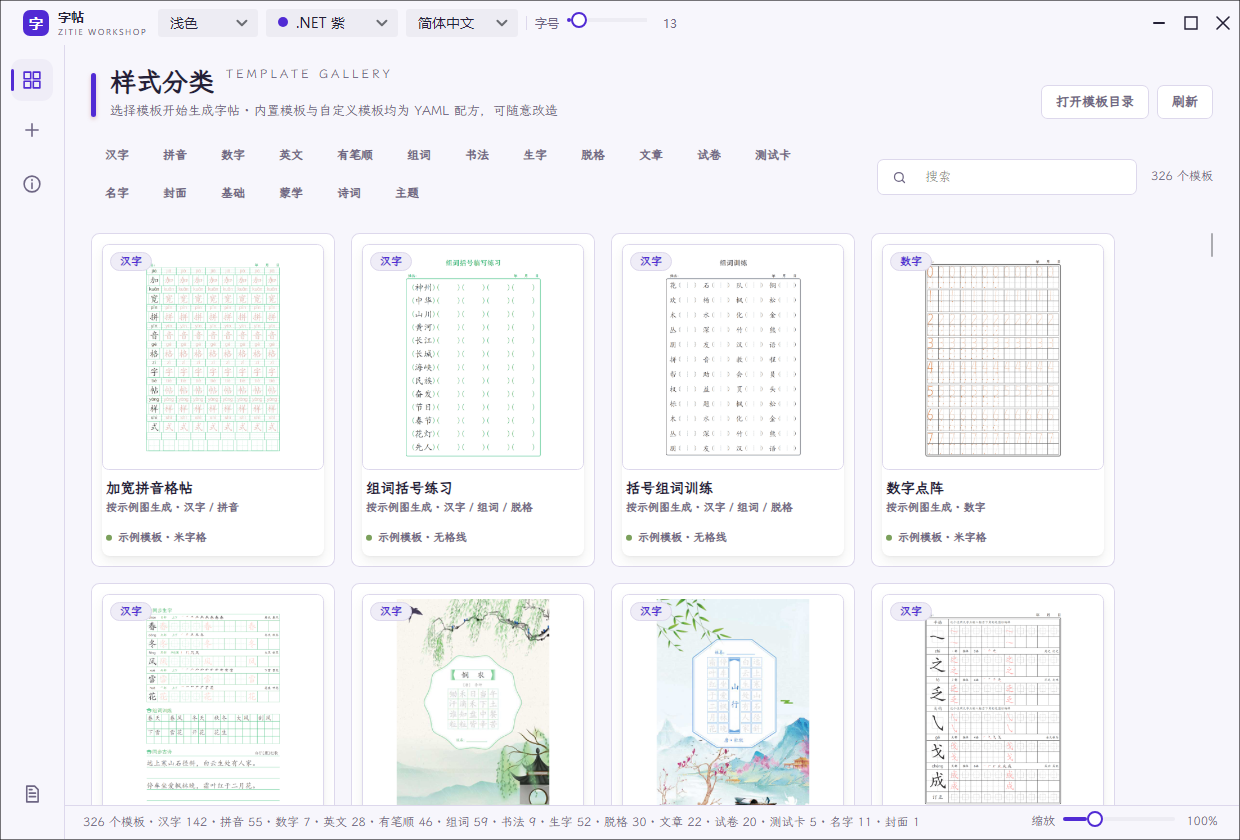
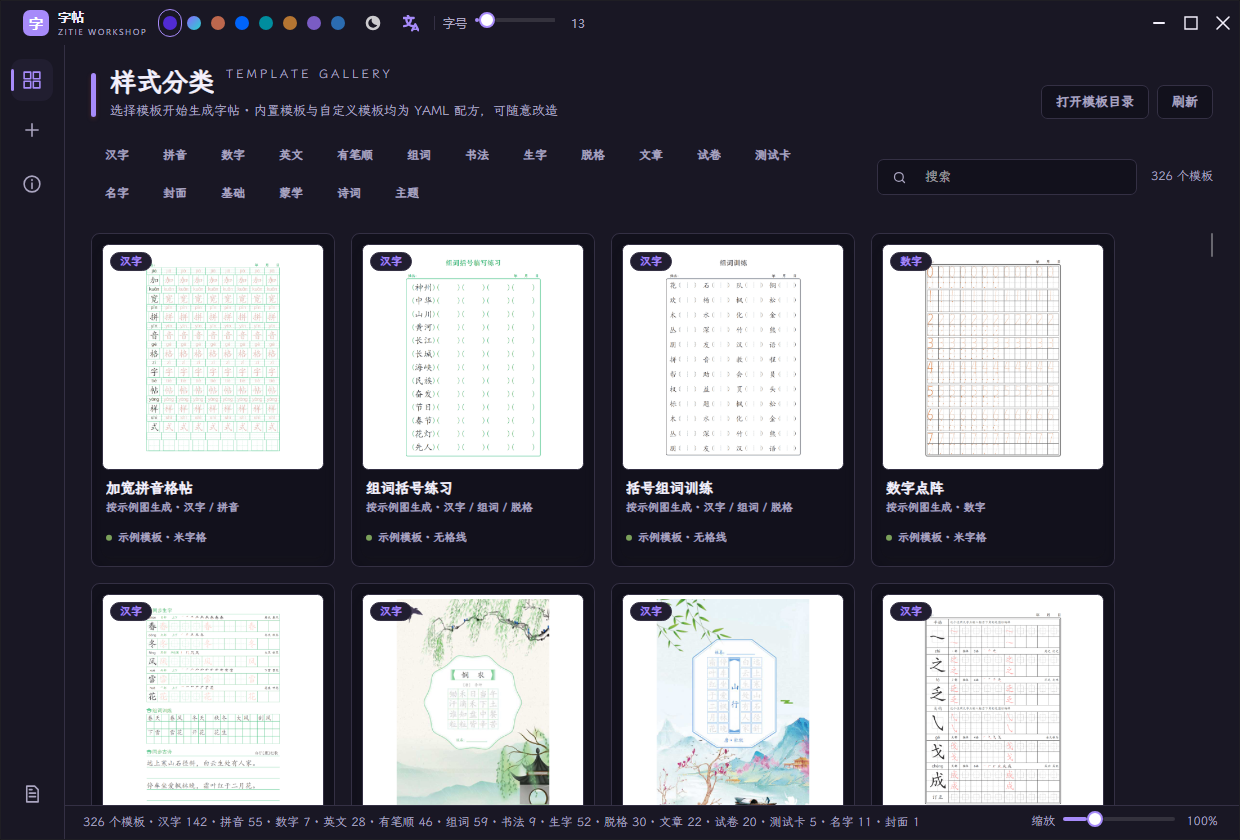
docs(验收): 更新零点二点二原生截图与安装包验证记录

diff --git a/docs/UI-VERIFICATION.md b/docs/UI-VERIFICATION.md
@@ -1,11 +1,15 @@
-# Zitie 0.2.1 界面验证
+# Zitie 0.2.2 界面验证
 
 验证使用实际 Prism 应用、实际视图模型和 Avalonia Headless + Skia。设置、文档、PDF 与受控下载放在隔离输出目录；更新安装使用测试服务，不执行真实安装。
+
+最终产物使用共享控件与国际化包 `12.1.4.22`：正式发布程序 `--selfcheck`、原生 UI verifier 的 88 条断言、Windows Inno Setup 安装包编译及 SHA-256 生成均通过。README 静态截图来自该版本原生验证器。安装器未实际运行。
 
 ## 验证范围
 
 - Core 与 Desktop 共 133 项测试。
-- 实际窗口 74 条断言：326 个合并模板、真正的中文分词、八色 × 明暗模式、中英动态切换、五个参数页、内容与模板抽屉、文档保存恢复、PDF 导出、关于和完整更新状态。
+- 实际窗口 88 条断言：326 个合并模板、真正的中文分词、八色 × 明暗模式、中英动态切换、五个参数页、内容与模板抽屉、文档保存恢复、PDF 导出、关于和完整更新状态。
+- 标题栏使用八个配色点、Ursa 三态主题按钮和 Semi 语言菜单；无重复下拉。实际点击 Ursa 内部按钮验证浅色、深色、系统三态及偏好持久化，通过真实 ListBox 验证配色选择。
+- 实际展开语言菜单并执行对应菜单项；Ursa 内部按钮的工具提示绑定宿主 T4 资源，在三态和中英切换时即时更新。
 - 针对同一个已打开的编辑器切换语言，验证六类参数保持原值，并检查关闭状态下格型下拉框的 `SelectionBoxItem` 显示当前语言；选项使用稳定对象，避免替换字符串列表引发参数重置。
 - 直接断言全局语言与保存的语言等于本次选择，避免选项刷新回写旧语言后产生测试假阳性；当前状态和字数摘要也随语言重算。
 - 编辑器工具栏在 1240 和最小 1000 宽度下保持导出命令可见，文档命令在空间不足时可横向滚动；未保存状态用小圆点表达。
@@ -13,7 +17,8 @@
 - 正式 `scripts/publish.ps1` Windows NativeAOT、发布程序 `--selfcheck`、实际原生 UI verifier。原生界面使用发布脚本生成的 `.zi` 模板包，验证发布布局中的资源读取。
 - T4 生成结果、实际模板/内容快照与单文件内嵌产物均设 CI 检查。
 - 图片资源以 Ordinal 固定顺序内嵌，并在中文和英文系统文化下分别检查，避免开发机与 CI 排序不同。
-- 原型主窗和 About 显示桌面外边框、标题栏与标准窗口按钮，验证最小化、还原及关闭后重开；About 样例时间固定为 `2026-10-15 00:00:00`，生产程序继续显示真实构建时间。
+- 原型主窗和 About 显示桌面外边框、标题栏与标准窗口按钮，验证主窗最小化、还原及关闭后重开；About 的最小化、最大化与实际窗口一致禁用，禁用按钮不会改变布局。About 样例时间固定为 `2026-10-15 00:00:00`，生产程序继续显示真实构建时间。
+- 八个色点来自共享主题固定色样，保留 Aurora 渐变，顺序与原生标题栏相同，不随明暗切换改变身份。
 
 Jieba 的第三方模型加载使用默认反射 JSON。应用显式开启该能力，并由 `JiebaModelJsonContext` 为其嵌套字典预编译转换器；仅开启开关仍会在 NativeAOT 中失败。字帖文档和应用自有 JSON 继续使用源生成上下文，原生界面门禁实际验证“括号组词”能够拆成两个词。
 
@@ -24,10 +29,12 @@ Jieba 的第三方模型加载使用默认反射 JSON。应用显式开启该能
 | 主窗口 | 1240 × 840，标题栏 44，左导航 64 |
 | 模板卡片 | 244 × 334，缩略图 226 高，卡片间隔 16，页面左右留白 26 |
 | 编辑器 | 左参数区 316，五参数页，顶部命令栏与预览底栏独立 |
-| 标题栏 | 三态 100 宽、配色 132 宽、语言 112 宽，文本左对齐；字号 12–30 |
+| 标题栏 | 八个 14 px 色点，24 px 选择区域；三态按钮与语言图标各 30 px；字号 12–30 |
 | 目录 | 223 张样式示例图 + 103 张实际 ZitiePreview 缩略图，合并后 326 模板；内容 292 条 |
 | 字体和主题 | 内置文楷同源子集、共享 StudioTheme 八色令牌；打印纸张保持独立配色 |
 
 原型展示浏览器中的交互和标准格型预览；特殊题型排版、分页、系统文件选择、真实 PNG/PDF 导出及安装由桌面程序完成。图库中的全部缩略图来自真实示例或原生预览。字体栅格化、阴影和系统窗口装饰会因浏览器和系统不同而变化，不用主观百分比代替检查。
 
 本机未进行普通桌面鼠标验收、真实安装，也未运行 Linux/macOS 安装器；对应架构的 NativeAOT 与安装包检查由原生 CI runner 执行，结果需要在发布后核对。
+
+macOS ARM64 针对 Xcode 16.4 新链接器在完整 AOT 元数据的加数处理阶段崩溃，使用系统经典链接器，并显式关闭压缩调试段；运行时元数据保留策略不变。此路径需要由该平台发布任务验证。

diff --git a/README.md b/README.md
@@ -27,7 +27,7 @@ Zitie 是基于 .NET 10、Avalonia、Semi.Avalonia 和 SkiaSharp 的桌面字帖
 - 模板库支持关键词搜索、分类筛选、模板块缩放、Ctrl+滚轮缩放和刷新用户模板目录。
 - 软件字号可用 12-30 的滑块按设备显示效果调整，并保存到本机设置。
 - `.zitie.json` 文档保存/打开，内置模板由 223 个样式示例图驱动。
-- 三态明暗模式与八套共享配色分别保存，含 .NET 紫、极光和余烬；已打开的窗口、选项和字体分类可切换中英文。
+- 标题栏展示八个配色点、Ursa 三态主题按钮与 Semi 语言菜单；模式与配色分别保存，含 .NET 紫、极光和余烬；已打开的窗口、主题提示、选项和字体分类可切换中英文。
 - 独立关于窗口显示真实版本、平台与编译时间，使用 CodeWF.Toolkit 检查更新、下载、SHA-256 校验、取消与安装；无匹配平台资产时提供发布页入口。
 
 ## 使用

diff --git a/.github/release-notes/v0.2.2.md b/.github/release-notes/v0.2.2.md
@@ -1,0 +1,11 @@
+# Zitie 0.2.2
+
+- 标题栏统一八个配色点、Ursa 三态主题按钮与 Semi 语言菜单，保留独立字号设置，移除重复下拉。
+- 菜单切语与三态按钮即时保存偏好，实际按钮提示绑定宿主 T4 资源，中英切换不重建窗口、不重置字帖参数。
+- 单文件原型同步最新标题栏与版本样例，保留 326 个模板、292 条内容和离线交互。
+- 修复 Apple Silicon 平台 Xcode 链接器崩溃：仅 osx-arm64 使用系统经典链接器，macOS 关闭压缩调试段。
+- 关于窗口遵守禁用最小化、最大化的能力设置；原型同步窗口操作与固定配色色样。
+- 133 项测试、88 条实际界面断言、90 态离线原型验收；Windows 正式脚本 NativeAOT、自检与原生界面验证。
+- 发布 Windows x64、Linux x64/arm64、macOS x64/arm64 安装包及 SHA-256 校验文件。
+
+平台边界与验证复现见 `docs/UI-VERIFICATION.md`。
